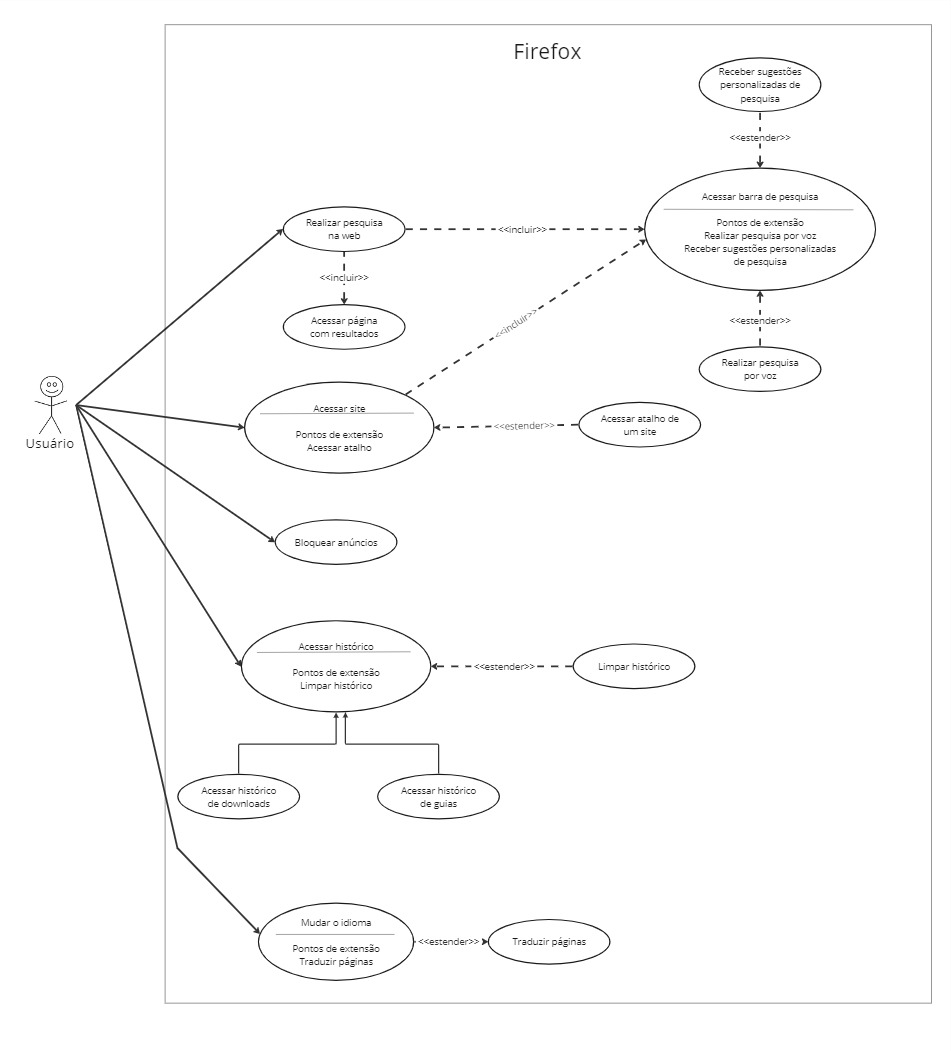
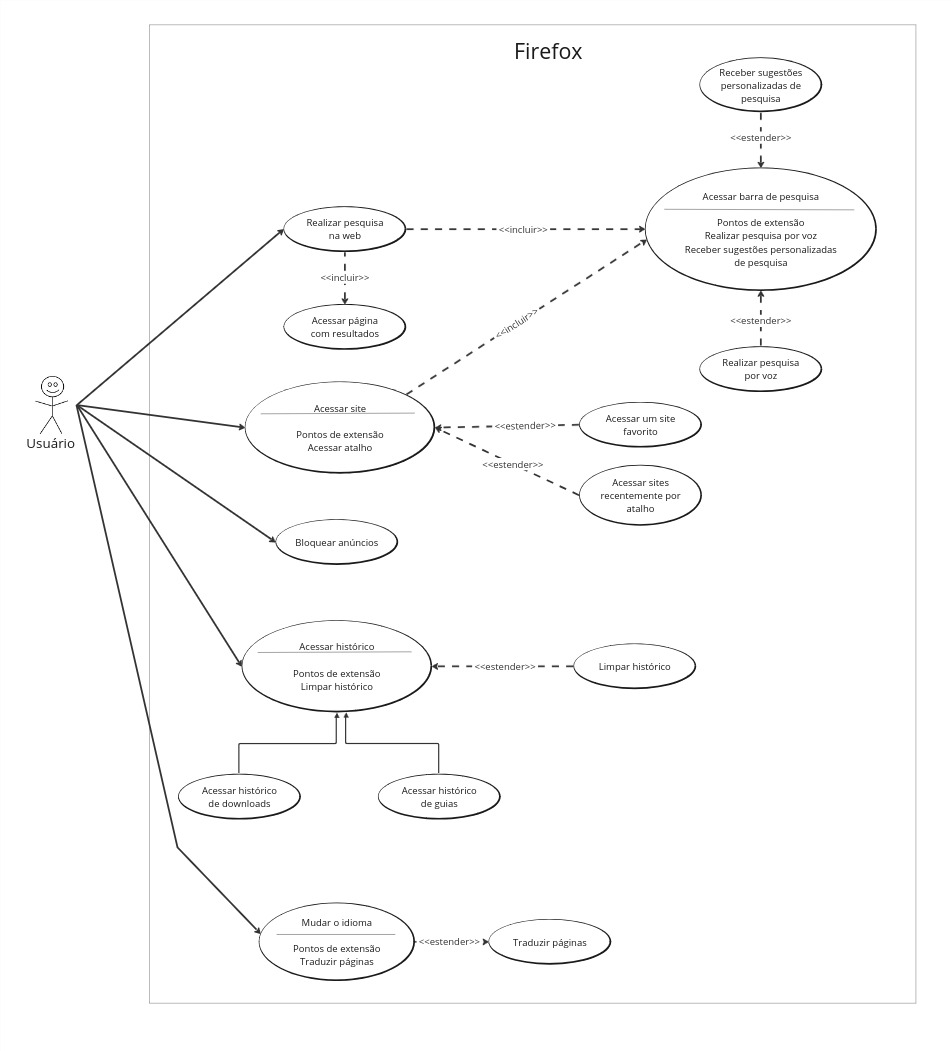
Modificações no diagrama de casos de uso e add da tabela Acessar site

diff --git a/docs/modelagem/casos_de_uso/casos_de_uso.md b/docs/modelagem/casos_de_uso/casos_de_uso.md
@@ -141,6 +141,23 @@ Na tabela 5, abaixo, será disposta a especificação do caso de uso "Mudar o Id
 <font size="3"><p style="text-align: center"><b>Fonte:</b> <a href="https://github.com/kauaneiras">Kauan Eiras</a>, 2024</p></font>
 </div>
 
+|  | Acessar site |
+| -: | :- |
+| **Descrição** | O usuário encontra e acessa um site específico na internet |
+| **Ator** | Usuário |
+| **Frequência de Uso** | Média |
+| **Pré-condições** | Conexão à Internet |
+| **Fluxo principal** | - Usuário abre o app. <br> - Usuário acessa a barra de pesquisa. <br> - Usuário digita o nome do site a ser acessado. <br> - Usuário Usuário acesa o site. |
+| **Fluxos alternativos** | <b> FA.1: Usuário deseja usar a ferramenta de pesquisa por voz </b> <br> - Usuário abre o app. <br> - Usuário acessa a barra de pesquisas. <br> - Usuário seleciona a ferramenta de pesquisa por voz. <br> - Usuário fala o nome do site que quer pesquisar. <br> - Usuário clica no link do site a ser acessado. <br> - Usuário acessa o site. <br> <b> FA.2: Usuário deseja usar a sugestão personalizada de pesquisa</b>  <br> - Usuário abre o app. <br> - Usuário acessa a barra de pesquisas. <br> - Usuário escreve algumas letras do site a ser acessado. <br> - Aplicativo mostra na tela sugestões personalizadas de pesquisa. <br> - Usuário clica na seleção personalizada de pesquisa adequada. <br> - Usuário acessa o site. <br> <b> FA.3: Usuário deseja usar um atalho de site favorito para acessar o site</b>  <br> - Usuário abre o app. <br> - Usuário clica no atalho do site favorito. <br> - Usuário acessa o site. <br> <b> FA.4: Usuário deseja acessar um site acessado recentemente</b>  <br> - Usuário abre o app. <br> - Usuário clica no atalho do site acessado recentimente. <br> - Usuário acessa o site. |
+| **Fluxos de exceção** | <b>FE.1: Site fora do ar ou inexistente </b><br> - Usuário abre o app. <br> - Usuário acessa a barra de pesquisa. <br> - Usuário usuário digita o nome do site a ser acessado. <br> - Site procurado pelo usuário não existe ou está fora do ar. <br> - Usuário recebe a mensagem de error 404 <br> <b>FE.2: Aplicativo não consegue acessar a internet </b><br> - Usuário abre o app. <br> - Usuário acessa a barra de pesquisa. <br> - Usuário usuário digita o nome do site a ser acessado. <br> - Aplicativo não tem acesso a internet. <br> - Usuário recebe a mensagem de erro "Sem internet|
+| **Pós-condições** | O usuário consegue acesar o site desejado. |
+| **Data da Criação** | 20/05/2024 |
+| **Rastreabilidade** | OBS01, BRS23, OBS12, BRS15, OBS29, OBS04, ENT05, BRS24 |
+
+<div align="center">
+<font size="3"><p style="text-align: center"><b>Fonte:</b> <a href="https://github.com/DaviPierre">Davi Pierre</a>, 2024</p></font>
+</div>
+
 ## Referências bibliográficas
 
 1. Lucidchart. Diagrama de caso de uso UML. Disponível em: <https://www.lucidchart.com/pages/pt/diagrama-de-caso-de-uso-uml>. Acesso em: 16 de maio de 2024.
@@ -157,3 +174,4 @@ Na tabela 5, abaixo, será disposta a especificação do caso de uso "Mudar o Id
 | 1.3 | 20/05/2024 | Caso de uso "Bloquear anúncios" | [Guilherme Westphall](https://github.com/west7) | [Lucas Martins](https://github.com/martinsglucas)|
 | 1.4 | 20/05/2024 | Caso de uso "Mudar o Idioma" | [Kauan Eiras](https://github.com/kauaneiras) | [Guilherme Westphall](https://github.com/west7)| 
 | 1.5 | 20/05/2024 | Adiciona textos introdutórios | [Guilherme Westphall](https://github.com/west7) | [Kauan Eiras](https://github.com/kauaneiras)|
+| 1.6 | 20/05/2024 | Adiciona casos de uso "Acessar site"| [Davi Pierre](https://github.com/DaviPierre)| [Kauan Eiras](https://github.com/kauaneiras) |
